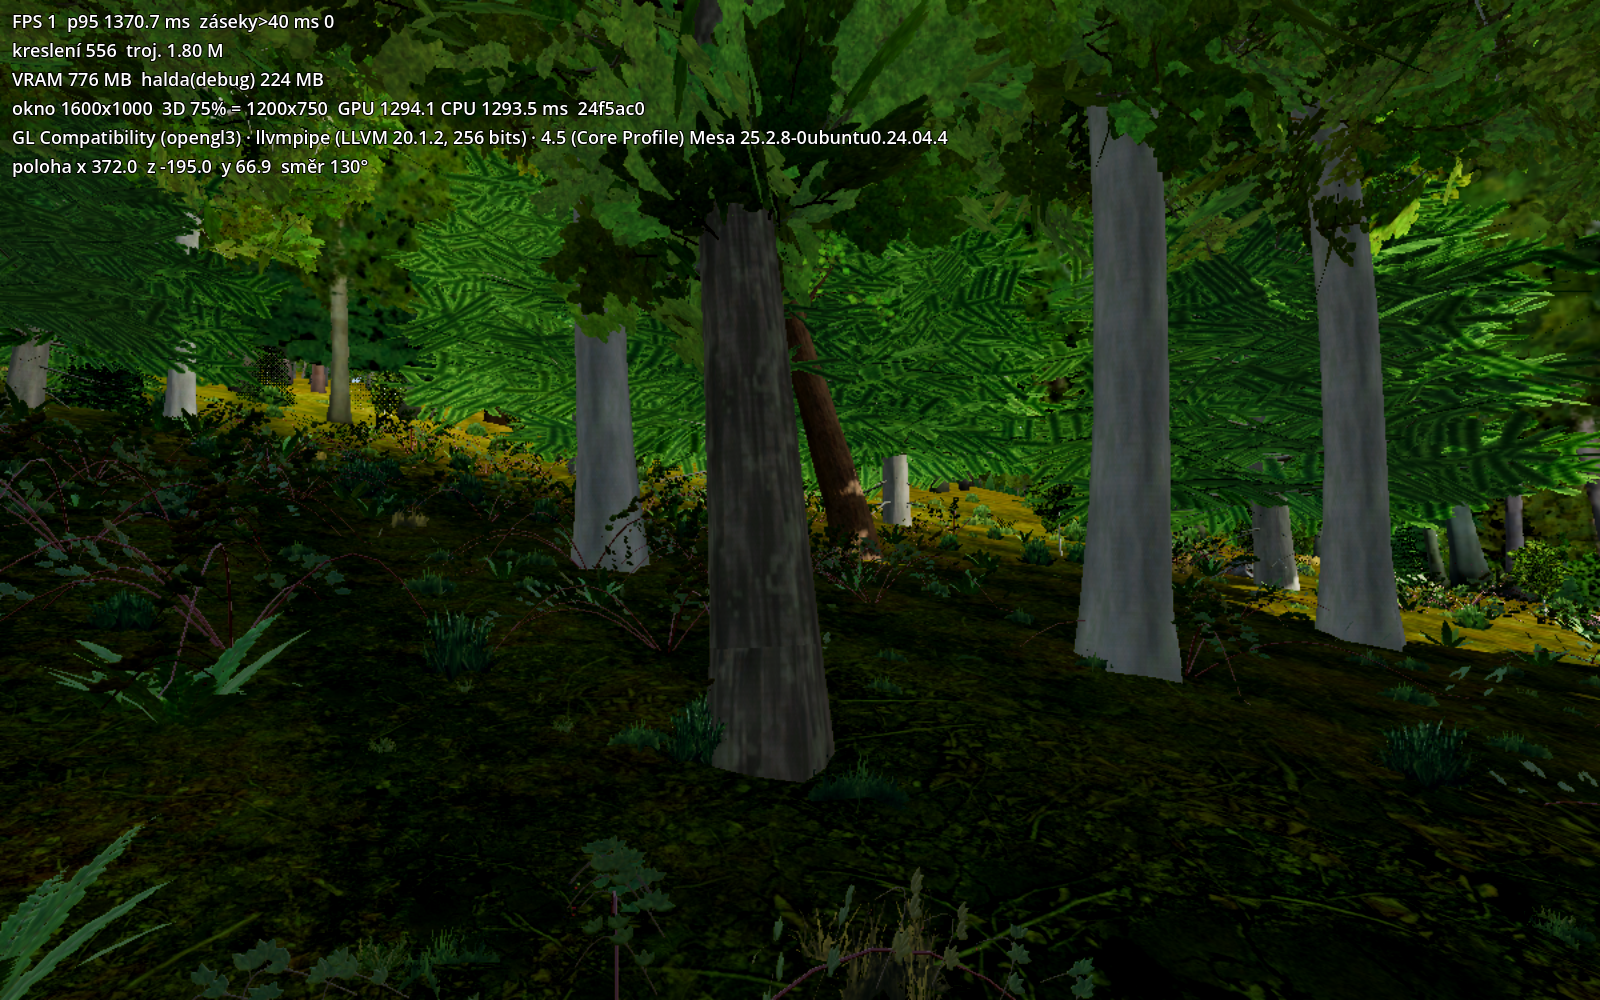
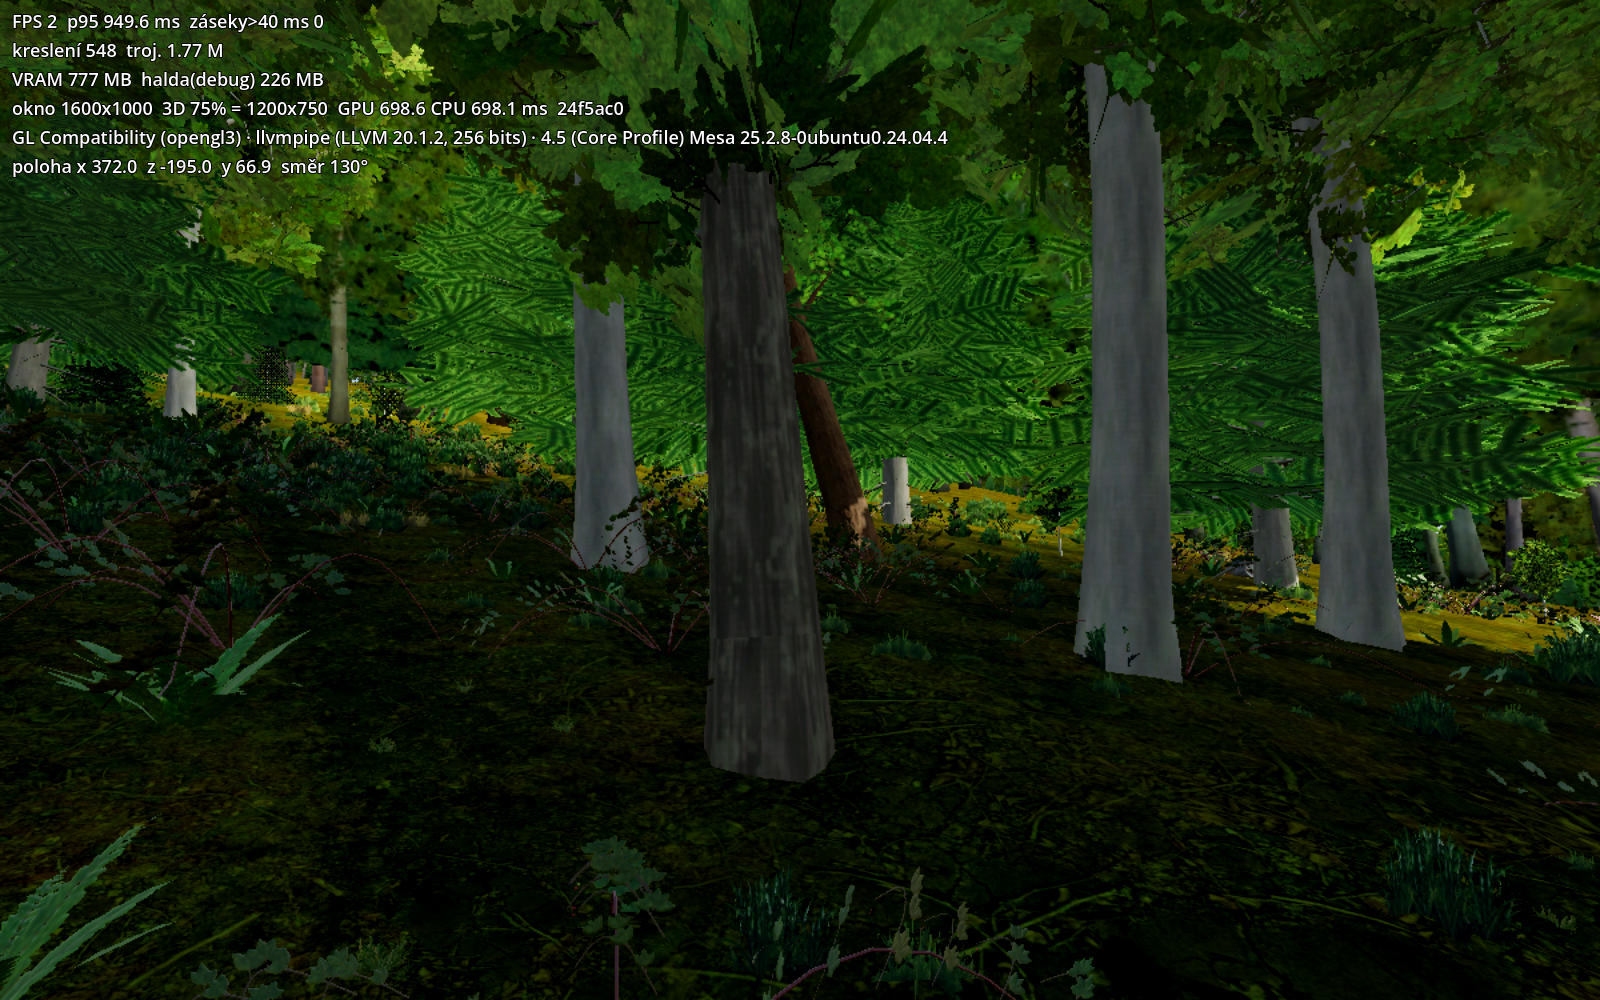
Tráva podle Havrana: zápoj korun ze všech stromů (koruny z glb), pod zápojem bez trávy, lesní půda podle zápoje, tablet tráva unshaded (kalibrace PC), test trava_zapoj, chyba 382, snímky a měření
Claude-Session: https://claude.ai/code/session_01DmjHz97xAq6SrpN6r8jG8o

diff --git a/puchart/docs/rozpracovane/vykon_z_havrana_15_11.md b/puchart/docs/rozpracovane/vykon_z_havrana_15_11.md
@@ -45,3 +45,43 @@ Pořadí: po dokončení funkcí a hlídačů, před vydáním APK měřit P1 a 
   Alokací MultiMeshů za trasu: A 20 257 → B 9 257 nových + 12 247 znovu (volných na konci 442, VRAM +8 MB).
   Pozor: llvmpipe kreslí na CPU (každý snímek > 40 ms), rozptyl mezi běhy velký (výchozí běh téže verze les p50 341,
   p95 736) – směr ano, čísla pro tablet NEOVERENO. Záseky tabletu změří Míša (řádek „zásoba MM“ a sloupec >2×p50 v měření).
+
+## Tráva podle Havrana (17. 11., Míša: „Havran má velkou hustotu trávy, ale pod stromy v lese ne, a už mu i FPS vychází“)
+Havran (FETCH claude/new-session-0dtk58 d53fa65): `pravidla/svet/les_podrost.json`, `scripts/svet.gd` _koruny_stin/zapoj_v/_puda_zapoj,
+`scripts/louka.gd` _svetlo_lesa, `modely.json trava_unshaded`, `docs/mereni_verze.md`.
+
+| | Havran | Puchart před | Puchart teď |
+|---|---|---|---|
+| koruny pro trávu | všechny stromy po všech krocích sázení, poloměr z glb modelu | stromy.bin, poloměr 0,2 × výška (modely mají 0,23–0,6, buk 0,32–0,35) → koruny 1,6× užší | jako Havran: glb × měřítko les.gd (`nastroje/kryt_korun.py`) |
+| zápoj | krytí × zápoj okolí (samotný strom v louce bez zápoje), přechod 6 m | jen třídy les_*/luh, kryt 0,6–1,0 | krytí × okolí 0,35–0,6 (les Puchartu má krytí 0,59), přechod 3 m, všechny třídy |
+| tráva pod zápojem | × 0,015 (nic) | × 0,1 (louka 0,05 trsu/bod), byliny tráva bez omezení | × 0,015; byliny tráva/vysoká také (`byliny.json zapoj`) |
+| tráva na světle v lese | jako louka | 0,5 | 0,9 (jako paseka/okraj) |
+| půda pod zápojem | zem.gdshader hrabanka/listí z masky + zápoj | opad jen podle masky svahu | zem.gdshader: zápoj → opad, světlina v lese → drn (`louka.json les.puda`) |
+| podrost | řídké kapradí/byliny z atlasu podle zápoje | byliny.gd kapradí, mech, ostružiník podle třídy | beze změny (už je) |
+| tráva bez stínového průchodu | `trava_unshaded` (v datech tablet **false** – barva lesa; měřeno: unshaded p50 ≈ bez trávy) | stínovaná všude (stebla vertex_lighting) | **tablet unshaded** (`louka.json unshaded`), světlo okolí + slunce × (1 − 0,6 × zápoj), kalibrace barvy na PC ±2 % |
+
+Co Havranovi dalo FPS (jeho měření 0.9999991, tablet): dlaždice terénu (louka −12, tvrz-cesta −14 ms p50), méně trávy pod
+korunami (les 21/33 ms) a jádro korun; unshaded tráva naměřena 0.99992 (p50 ≈ bez trávy), ale vydaná jen jako varianta.
+Puchart tablet 17. 11.: les 35,2 ms, bez trávy 22,9 → tráva v lese 12 ms; Havranova zkušenost: ~60 % ceny trávy = stínový průchod.
+
+Měření PC 17. 11. (llvmpipe, souběžně cizí Godoty, `PUCHART_MERENI_JEN=les PUCHART_MERENI_RYCHLE=1` – 16 snímků na úsek,
+před = moje soubory z b362d2a, oba stavy 2 běhy těsně po sobě; **pro tablet NEOVERENO**, llvmpipe kreslí na CPU – stínový
+průchod trávy tu cenu nemá jako na Adrenu), p50 / p95 ms, běh 1 · běh 2:
+
+| úsek | před | po |
+|---|---|---|
+| les | 491/765 · 467/755 | 455/694 · 431/819 |
+| les bez trávy | 437/689 · 442/683 | 494/709 · 449/726 |
+| les tráva stínovaná | 459/761 · 454/814 | 453/702 · 453/769 |
+| les tráva unshaded | (před: metoda chybí = les) | 462/698 · 463/828 |
+| troj M les | 1,55 · 1,55 | 1,50 · 1,51 |
+
+PC: les p50 −6 až −8 % (v šumu), trojúhelníky −0,05 M; unshaded na llvmpipe bez rozdílu (očekávané – rozhodne tablet).
+Deterministicky (trsy louky do 66 m / trávy bylin do 32 m z dat): zapojený les (372, −195) 9 039 → 995 (−89 %) / 390 → 6;
+měřicí úsek les (−160, −160, hlavně paseka a suť) 34 499 → 31 702 / 4 213 → 3 635; okraj (−60, −140) −14 %; louka beze změny;
+vyhlídka (bučina s mezerami) +29 % (světliny 0,9). Tablet: změří Míša – varianty `les trava stinovana` / `les trava unshaded`.
+Snímky: `docs/screens/trava_havran_17_11_{pred,po,un}_{les,okraj,louka}.png`. Test: `smysl:trava_zapoj`.
+Zbývá: tablet změřit (les, varianty stínovaná/unshaded) a porovnat barvu unshaded trávy na tabletu a v jiných denních dobách
+(kalibrace jen PC odpoledne); unshaded tráva nemá stín samotných stromů na louce (zápoj okolí = 0 – snímek _un_okraj: chybí stín
+koruny vlevo) – když bude vadit, stin_korun z čistého krytí místo zápoje; louka krok 0,5 m (Havran 0,36 + drn) – hustší jen po
+měření tabletu (rozpočet scén 2,1 M troj.).

diff --git a/puchart/docs/chyby.md b/puchart/docs/chyby.md
@@ -342,3 +342,4 @@
 | 379 | U mlýna pryč hromada pytlů (ploché plachty) a polorozpadlý plot + „žebřík/plot“ v keřích (Míša 17. 11., snímky 17.jpg x −323,2 z −208,2 a 18.jpg x −314,1 z −217,5) | mlýn (−329,1; −204,4), dvůr a svah nad ním | výbava dvora modelu Havrana Mlyn_Dvur (pytle M_Pytel, ohrada, hnůj, kameny) a plot z klád podél cesty modelu Mlyn_Cesta se stavěly s mlýnem (Havran je vynechával: voda.json mlyn.dil vynechat_uzly Mlyn_Dvur); nejsou z predmety_mist.py | pravidla/svet/zajimava_mista.json mlyn.vynechat + Mlyn_Dvur, Mlyn_Cesta (zábor a přístup zůstávají) | smysl:mlyn_dvere_dvur + snímky docs/screens/mlyn_17_11_dvur.jpg, mlyn_17_11_svah.jpg | opraveno 17. 11. |
 | 380 | Lávka: pěšina za lávkou dělá kličku do kopce – Míša přeškrtla a dokreslila vedení vpravo podél údolí k cestě (17. 11., snímek 14.jpg x 110,4 z 517,9) | most_440_1 přes Veličku (146,7; 528,6), cesta udoli_440_1 na východním břehu | cesty.py „nájezd na most rovně“ (Míša 6./9. 11.): výchozích 6 m v ose mostu na východ + oblouk 26 m zpět do osy cesty vytlačil cestu, která vede od mostu hned na jih, do svahu a zpět (hák až x 160 při ose x 153,5) – stejně jako u most_440_3 15. 11. | pravidla/svet/voda_hra.json most_440_1 najezd_cesty {udoli_440_1: rovne_m 1, oblouk_m 5} (nové: nájezd jen jedné cesty, nastroje/cesty.py) – za mostem hned na jih podél Veličky; západní udoli_440_2 výchozí (s ostrým nájezdem příčný sklon 0,10 > 0,08); přestavěn terén (stanoviště → cesty → místa → dlaždice → voda, mapa) | smysl:most_najezd_bez_haku + snímky docs/screens/lavka_17_11_pred.jpg, lavka_17_11_po.jpg, lavka_17_11_shora_pred.jpg, lavka_17_11_shora_po.jpg | opraveno 17. 11. (podobný hák mají most_440_2, 440_4, 440_5 – 5,7–9,2 m, Míša nehlásila, k rozhodnutí) |
 | 381 | Na mapě není důl a další zajímavá místa (Míša 17. 11.: „nevím kde je důl a další zajímavé věci, hoď mi je do mapy“) | mapa (hra/scripts/mapa.gd) | mapa ukazovala jen místa rychlého cestování (hrady, krčma, ves, hájovna); zajímavá místa (15.–16. 11.) do ní nikdo nezapsal | pravidla/svet/mapa_body.json zajimava (zdroj Havran mapa.gd, KCD mapa, hornický symbol kladívko a želízko): všechna místa z hra/data/zajimava_mista.json (štola = důl, lom, mlýn, studánka, milíř, smolárna, brtě, kříže, boží muka) jako značka inkoustem podle druhu + název; mapa.gd nacti_zajimava / _draw_zajimava; jen značka, ne rychlé cestování (NAVRH) | smysl:mapa_zajimava + snímek docs/screens/mapa_17_11_zajimava.jpg | opraveno 17. 11. |
+| 382 | Tráva louky rostla pod zapojenými korunami lesa (Míša 17. 11.: „Havran má velkou hustotu trávy, ale pod stromy v lese ne“; tablet: tráva v lese −12 ms) | les celého výseku, např. zapojená bučina (372, −195): 9 039 trsů do 66 m | kryt_korun.py brala korunu 0,2 × výška stromu, modely mají 0,23–0,6 (buk 0,32–0,35) → koruny 1,6× užší; pod korunou jen −90 % a jen v třídách les_*; tráva bylin bez omezení | převzato z Havrana: zápoj korun všech stromů z glb modelů × zápoj okolí (louka.json les, nastroje/kryt_korun.py), pod zápojem × 0,015 i pro trávu bylin (byliny.json zapoj), lesní opad v terénu podle zápoje (zem.gdshader); tablet tráva unshaded (louka.json unshaded) | smysl:trava_zapoj (pod zápojem hustota 0,023, 4,8 % bodů; starý stav 0,35 / 100 %) | opraveno 17. 11., tablet NEOVERENO |
